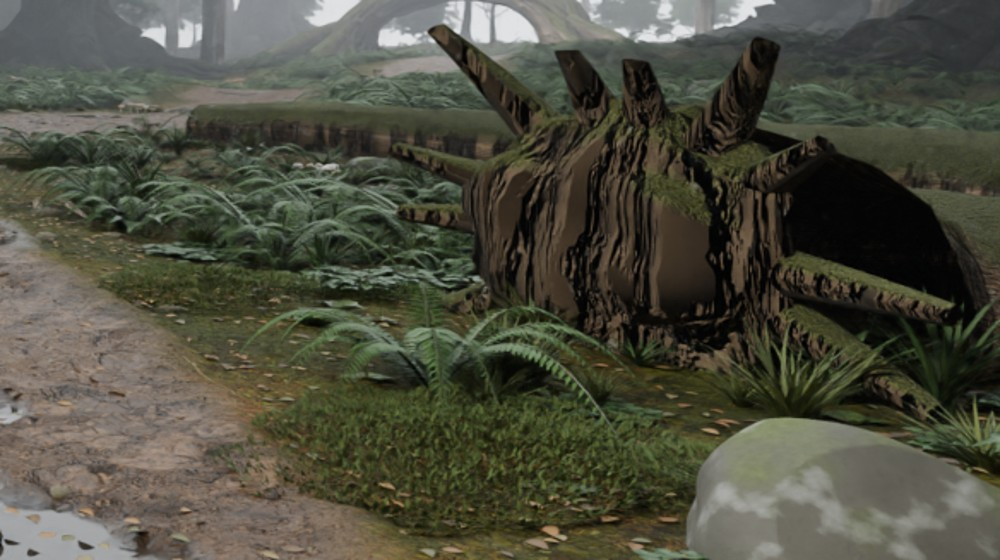
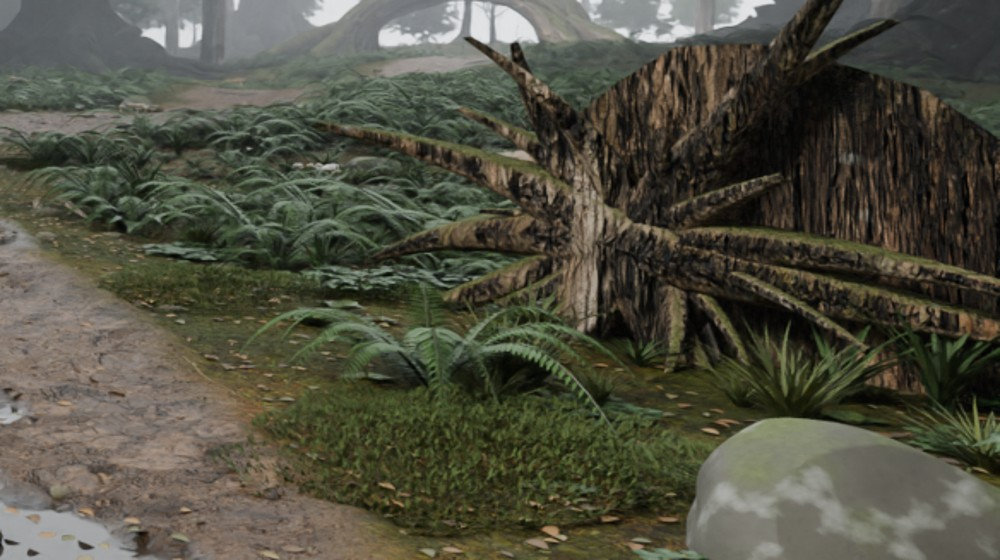
D2 fallen tree: root plate with 22 tapering roots of mixed thickness and bend, flared capped trunk end, no flat soil disc; V3 log moved to the right side

Changed region(s): [[0.124, 0.0, 1.0, 0.7589], [0.868, 0.0304, 0.899, 0.0607], [0.093, 0.1821, 0.124, 0.2125]]

diff --git a/art/source/core-d2-v1/d2_plan.py b/art/source/core-d2-v1/d2_plan.py
@@ -936,7 +936,15 @@ if REAL:   # V5 設定圖：支路兩旁各有幾條沿著路走的長根
         if _ti.type == 'TEX_IMAGE':
             _ti.projection = 'FLAT'
     mossify(_flm, 1.3, 1.0, reach=.15)
-    _fdirt = M_DIRT if 'M_DIRT' in globals() else _flm
+    _fdirt = bpy.data.materials.new('RootPlateSoil'); _fdirt.use_nodes = True   # 根盤帶起來的土：亮一點的濕棕土（原本誤用樹皮材質 → 一團黑）
+    _sn = _fdirt.node_tree; _sb = next(x_ for x_ in _sn.nodes if x_.type == 'BSDF_PRINCIPLED')
+    _stc = _sn.nodes.new('ShaderNodeTexCoord'); _smp = _sn.nodes.new('ShaderNodeMapping'); _smp.inputs['Scale'].default_value = (2.5, 2.5, 2.5)
+    _sn.links.new(_stc.outputs['Object'], _smp.inputs['Vector'])
+    _sti = _sn.nodes.new('ShaderNodeTexImage'); _sti.image = bpy.data.images.load(_GT + 'brown_mud_02_diff_2k.png'); _sti.projection = 'BOX'
+    _sn.links.new(_smp.outputs['Vector'], _sti.inputs['Vector'])
+    _smx = _sn.nodes.new('ShaderNodeMixRGB'); _smx.blend_type = 'MULTIPLY'; _smx.inputs[0].default_value = 1; _smx.inputs[2].default_value = (1.25, .9, .6, 1)
+    _sn.links.new(_sti.outputs['Color'], _smx.inputs[1]); _sn.links.new(_smx.outputs[0], _sb.inputs['Base Color'])
+    _sb.inputs['Roughness'].default_value = .9
 
     def fallen_log(x, y, ang, L, R0, seed):
         rr_ = random.Random(seed)
@@ -947,7 +955,7 @@ if REAL:   # V5 設定圖：支路兩旁各有幾條沿著路走的長根
         for i in range(NS + 1):
             t = i / NS
             c = Vector((x, y, 0)) + d_ * (L * t) + s_ * (.5 * math.sin(t * 2.6 + seed))
-            r = R0 * (1 - .45 * t) * (1 + .25 * max(0, .08 - t) / .08)   # 根端粗、樹梢細
+            r = R0 * (1 - .45 * t) * (1 + .7 * max(0, .1 - t) / .1)   # 根端粗、樹梢細
             c.z = gh(c.x, c.y) + r * .55   # 半埋：下面四成多在土裡
             rg = []
             for j in range(NR):
@@ -960,7 +968,9 @@ if REAL:   # V5 設定圖：支路兩旁各有幾條沿著路走的長根
                 f = bm_.faces.new((rings[i][j], rings[i][(j + 1) % NR], rings[i + 1][(j + 1) % NR], rings[i + 1][j]))
                 for lp, (ii, jj) in zip(f.loops, ((i, j), (i, j + 1), (i + 1, j + 1), (i + 1, j))):
                     lp[uvl_].uv = (jj / NR * 2 * math.pi * R0 / 1.4, ii / NS * L / 2.2)
-        bm_.faces.new(rings[-1][::-1])   # 斷口
+        for _cf in (bm_.faces.new(rings[-1][::-1]), bm_.faces.new(rings[0])):   # 斷口、根端封起來；截面 UV 用平面投影（不然拉成直條紋）
+            for lp in _cf.loops:
+                lp[uvl_].uv = (lp.vert.co.dot(s_) * .3, lp.vert.co.z * .3)
         me_ = bpy.data.meshes.new('FallenLog'); bm_.to_mesh(me_); bm_.free()
         for p_ in me_.polygons:
             p_.use_smooth = True
@@ -969,15 +979,17 @@ if REAL:   # V5 設定圖：支路兩旁各有幾條沿著路走的長根
         # 根盤：倒下時從土裡翻起來的一面，直立的圓盤 + 一圈斷根 + 根上帶的土
         base = Vector((x, y, gh(x, y))) - d_ * .3
         bm2 = bmesh.new()
-        for k in range(14):
-            a = 2 * math.pi * k / 14 + rr_.uniform(-.15, .15)
+        for k in range(22):   # 11/23：斷根粗細差很多、長短不一、彎曲，尖端收細（原本一樣粗的圓頭棍 → 像一叢尖刺）
+            a = 2 * math.pi * k / 22 + rr_.uniform(-.2, .2)
             dirr = (s_ * math.cos(a) + Vector((0, 0, 1)) * math.sin(a)).normalized()
-            Lr = R0 * rr_.uniform(1.6, 2.6)
+            thick = rr_.choice((.34, .26, .2, .14, .1, .08))
+            Lr = R0 * rr_.uniform(.9, 2.8) * (1.2 if thick > .2 else 1)
+            bend = Vector((rr_.uniform(-1, 1), rr_.uniform(-1, 1), rr_.uniform(-1, .3))) * .35
             prev = None
             for u in range(9):
                 tt = u / 8
-                c = base + Vector((0, 0, R0 * .9)) + dirr * (Lr * tt) - d_ * (.4 * tt * tt)
-                rad = R0 * .28 * (1 - .85 * tt) + .03
+                c = base + Vector((0, 0, R0 * .9)) + dirr * (Lr * tt) - d_ * (.4 * tt * tt) + bend * (Lr * tt * tt)
+                rad = R0 * thick * (1 - .92 * tt ** .8) + .015
                 ring = [bm2.verts.new(c + (d_ * math.cos(b) + dirr.cross(d_).normalized() * math.sin(b)) * rad) for b in [2 * math.pi * q / 8 for q in range(8)]]
                 if prev:
                     for q in range(8):
@@ -986,7 +998,7 @@ if REAL:   # V5 設定圖：支路兩旁各有幾條沿著路走的長根
         me2 = bpy.data.meshes.new('RootPlate'); bm2.to_mesh(me2); bm2.free()
         for p_ in me2.polygons:
             p_.use_smooth = True
-        me2.materials.append(_flm)
+        me2.materials.append(_bkm)   # 斷根沒有 UV → 用神木的盒投影樹皮（不然會拉成條紋）
         sc.collection.objects.link(bpy.data.objects.new('RootPlate', me2))
         bm3 = bmesh.new(); bmesh.ops.create_icosphere(bm3, subdivisions=4, radius=1)
         for v in bm3.verts:
@@ -996,8 +1008,8 @@ if REAL:   # V5 設定圖：支路兩旁各有幾條沿著路走的長根
         for p_ in me3.polygons:
             p_.use_smooth = True
         me3.materials.append(_fdirt)
-        od = bpy.data.objects.new('RootDirt', me3); sc.collection.objects.link(od)
-        od.scale = (R0 * 1.2,) * 3; od.rotation_euler.z = ang
+        od = bpy.data.objects.new('RootDirt', me3)   # 11/23：一整片土盤從正面看像一塊紙板 → 不放
+        od.scale = (R0 * 1.05,) * 3; od.rotation_euler.z = ang
         od.location = base + Vector((0, 0, R0 * .9)) - d_ * .15
         # 翻起後留下的淺坑
         print('FALLENLOG', round(x, 1), round(y, 1))
@@ -1007,7 +1019,7 @@ if REAL:   # V5 設定圖：支路兩旁各有幾條沿著路走的長根
         f_ = Vector((tx_ - cx_, ty_ - cy_)).normalized(); r_ = Vector((f_.y, -f_.x))
         best_ = None
         for fd_ in range(8, 30):
-            for rd_ in (-16, -14, -12, -10, -8, -6, 6, 8, 10, 12, 14, 16):
+            for rd_ in ((6, 8, 10, 12, 14, 16) if seed_ == 41 else (-16, -14, -12, -10, -8, -6, 6, 8, 10, 12, 14, 16)):   # V3 那棵放畫面右邊（左邊被神木和蕨擋住）
                 p_ = Vector((cx_, cy_)) + f_ * fd_ + r_ * rd_
                 a_ = math.atan2(r_.y, r_.x) + (.35 if rd_ > 0 else -.35)
                 e_ = p_ + Vector((math.cos(a_), math.sin(a_))) * L_
